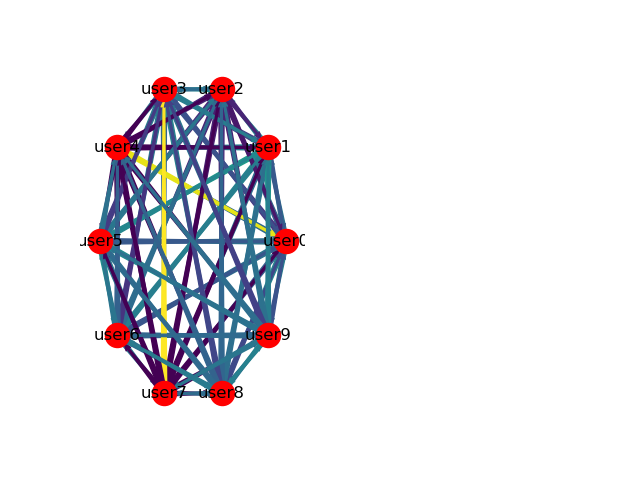
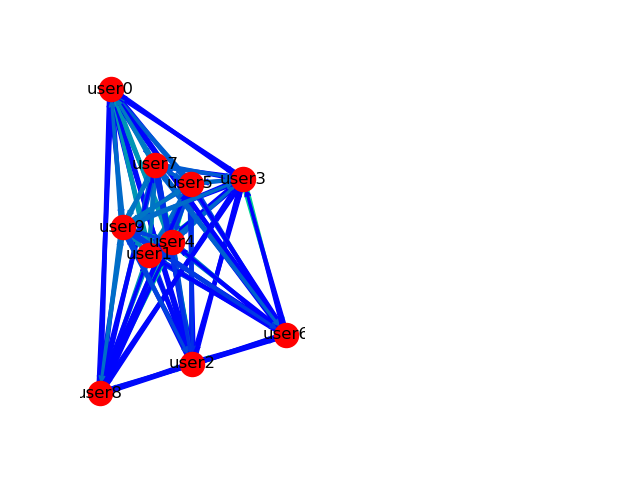
Switched to SVM. Added cross-val data info. Noise_floor is back to culling edges. Using FR Graph Layout.

Changed region(s): [[0.125, 0.1464, 0.4688, 0.8494]]

diff --git a/encode_and_train.py b/encode_and_train.py
@@ -7,18 +7,25 @@ import networkx as nx
 import pandas
 from sklearn.naive_bayes import GaussianNB
 from sklearn.preprocessing import MultiLabelBinarizer
-
+from sklearn.model_selection import KFold, cross_val_score
+from sklearn import svm
 
 def encode_and_train(df: pandas.DataFrame) -> (MultiLabelBinarizer, GaussianNB):
     enc = MultiLabelBinarizer()
     print("Encoding data...")
     print(pandas.DataFrame(enc.fit_transform(df["present"] + df["member"].apply(str).apply(lambda x: [x])),
                            columns=enc.classes_, index=df.index))
-    clf = GaussianNB()
-    print("Training classifier...")
-    clf.fit(enc.transform(df["present"]), list(df["member"].apply(str)))
+    #print("Training GaussianNB classifier...")
+    #clf = GaussianNB()
+    #clf.fit(enc.transform(df["present"]), list(df["member"].apply(str)))
+    X, y = enc.transform(df["present"]), list(df["member"].apply(str))
+    #print(f"Cross-validation GNB: {cross_val_score(clf, X, y, cv=KFold(n_splits=5), n_jobs=-1)}")
+    print("Training svm...")
+    svc = svm.SVC(C=1.1, kernel="linear", probability=True, class_weight='balanced')
+    svc.fit(enc.transform(df["present"]), list(df["member"].apply(str)))
+    print(f"Cross-validation SVC : {cross_val_score(svc, X, y, cv=KFold(n_splits=5), n_jobs=-1)}")  # Note: SVC lookin' better
     print("Done.")
-    return enc, clf
+    return enc, svc
 
 
 def graph_data(encoder: MultiLabelBinarizer, classifier: GaussianNB, noise_floor: float = 0, name_file=None):
@@ -37,20 +44,22 @@ def graph_data(encoder: MultiLabelBinarizer, classifier: GaussianNB, noise_floor
                 weight = float(prob_map[u])
             else:
                 weight = 0
-            social_graph.add_edge(u, o, weight=weight)
+            if weight > noise_floor:
+                social_graph.add_edge(u, o, weight=weight)
 
     plt.subplot(121)
     if name_file:
         mapping = {k: v for (k, v) in get_dict_from_namefile(name_file).items() if k in social_graph.nodes}
         nx.relabel_nodes(social_graph, mapping, copy=False)
-    pos = nx.circular_layout(social_graph)
+    print("In-degree weight sums:")
+    print(sorted(social_graph.in_degree(weight='weight'), key=lambda x: x[1], reverse=True))
+    # pos = nx.circular_layout(social_graph)
+    pos = nx.fruchterman_reingold_layout(social_graph)
     edges, weights = zip(*[i for i in nx.get_edge_attributes(social_graph, 'weight').items() if i[1] > noise_floor])
     nx.draw(social_graph, pos, edgelist=edges, edge_color=weights, edge_cmap=plt.get_cmap("winter"), with_labels=True,
             arrowstyle='fancy')
     print("Done. Showing graph.")
     plt.show()
-    print("In-degree weight sums:")
-    print(sorted(social_graph.in_degree(weight='weight'), key=lambda x: x[1], reverse=True))
     return social_graph
 
 

diff --git a/generate_samples.py b/generate_samples.py
@@ -21,11 +21,11 @@ def generate_samples(samples, num_members, savepath):
     for _ in range(int(random.triangular(1, len(user_ids), 2))):
         # BUG: Sometimes u0 and u1 are duplicates that overwrite previous values
         u0, u1 = random.sample(user_ids, 2)
-        friendlist[u0] = friendship(u0, u1, random.uniform(.7, 1))
+        friendlist[u0] = friendship(u0, u1, random.uniform(.9, 1))
         print(f"{u0} and {u1} are friends with weight .{int(100*friendlist[u0].weight)}")
     friendly_users = friendlist.keys()
 
-    print("Generating samples")
+    print("Generating samples...")
     current_time = int(time.time())
     for _ in range(samples):
         member = random.choice(user_ids)

diff --git a/README.md b/README.md
@@ -12,15 +12,17 @@ The data is stored in a `csv` file, looking like the following:
 
 ```csv
 timestamp,member,present
-1538780281,user9,"['user4', 'user6']"
-1538780523,user9,"['user7', 'user0', 'user5', 'user1', 'user3', 'user8', 'user2', 'user6']"
-1538781457,user0,"['user4', 'user3']"
-1538782163,user1,['user9']
-1538782577,user8,['user3']
-1538782852,user7,"['user0', 'user4', 'user8', 'user5', 'user3']"
-1538782998,user1,"['user9', 'user2', 'user3', 'user7', 'user4']"
-1538783891,user0,"['user7', 'user5', 'user3', 'user4', 'user8', 'user1']"
-1538784016,user5,"['user2', 'user1']"
+1539291278,user3,"['user8', 'user1', 'user0', 'user7', 'user4', 'user6']"
+1539291514,user1,"['user5', 'user0', 'user4', 'user2', 'user7', 'user8', 'user9', 'user6']"
+1539292425,user0,"['user7', 'user5', 'user3', 'user9', 'user4']"
+1539293267,user3,"['user4', 'user0', 'user2', 'user7', 'user6']"
+1539293442,user9,['user8']
+1539293609,user3,"['user6', 'user0', 'user7', 'user4']"
+1539293634,user3,"['user0', 'user6', 'user5', 'user8']"
+1539293848,user9,"['user6', 'user4', 'user0', 'user7']"
+1539294307,user9,"['user6', 'user1', 'user0']"
+1539294408,user6,"['user1', 'user4', 'user0', 'user7', 'user5', 'user2']"
+1539295361,user6,"['user0', 'user1', 'user4', 'user3', 'user9', 'user2']"
 ...
 ```
 
@@ -37,23 +39,22 @@ Sample:
 $ python generate_samples.py 5000 10 data.csv
 Created 10 members.
 Generating friends...
-user2 and user3 are friends with weight .70
-user7 and user3 are friends with weight .92
-user4 and user0 are friends with weight .82
-user4 and user0 are friends with weight .72
-user4 and user0 are friends with weight .85
+user2 and user4 are friends with weight .93
+user0 and user4 are friends with weight .92
+user3 and user6 are friends with weight .99
+user8 and user2 are friends with weight .91
+user6 and user2 are friends with weight .98
 Generating samples
 Data successfully generated!
 ------
            member                                            present
 timestamp                                                           
-1538780281  user9                                     [user4, user6]
-1538780523  user9  [user7, user0, user5, user1, user3, user8, use...
-1538781457  user0                                     [user4, user3]
-1538782163  user1                                            [user9]
-1538782577  user8                                            [user3]
-1538782852  user7                [user0, user4, user8, user5, user3]
-1538782998  user1                [user9, user2, user3, user7, user4]
+1539291278  user3         [user8, user1, user0, user7, user4, user6]
+1539291514  user1  [user5, user0, user4, user2, user7, user8, use...
+1539292425  user0                [user7, user5, user3, user9, user4]
+1539293267  user3                [user4, user0, user2, user7, user6]
+1539293442  user9                                            [user8]
+1539293609  user3                       [user6, user0, user7, user4]
 ...
 [5000 rows x 2 columns]
 Saving data to C:\Users\SawyerPC\PycharmProjects\DiscordSocialGraph\data.csv.
@@ -65,34 +66,38 @@ The data can then by processed by running `encode_and_train.py`
 $ python encode_and_train.py data.csv
 Reading C:\Users\SawyerPC\PycharmProjects\DiscordSocialGraph\data.csv...
 Encoding data...
-      user0  user1  user2  user3  user4  user5  user6  user7  user8  user9
-0         0      0      0      0      1      0      1      0      0      0
-1         1      1      1      1      0      1      1      1      1      0
-2         0      0      0      1      1      0      0      0      0      0
-3         0      0      0      0      0      0      0      0      0      1
-4         0      0      0      1      0      0      0      0      0      0
-5         1      0      0      1      1      1      0      0      1      0
-6         0      0      1      1      1      0      0      1      0      1
-7         0      1      0      1      1      1      0      1      1      0
-8         0      1      1      0      0      0      0      0      0      0
-9         0      0      0      1      1      1      0      1      1      1
+   user0  user1  user2  user3  user4  user5  user6  user7  user8  user9
+0         1      1      0      1      1      0      1      1      1      0
+1         1      1      1      0      1      1      1      1      1      1
+2         1      0      0      1      1      1      0      1      0      1
+3         1      0      1      1      1      0      1      1      0      0
+4         0      0      0      0      0      0      0      0      1      1
+5         1      0      0      1      1      0      1      1      0      0
+6         1      0      0      1      0      1      1      0      1      0
+7         1      0      0      0      1      0      1      1      0      1
+8         1      1      0      0      0      0      1      0      0      1
+9         1      1      1      0      1      1      1      1      0      0
+
 ...
 [5000 rows x 10 columns]
-Training classifier...
+Training svm...
+Cross-validation SVC : [ 0.369   0.3315  0.347   0.326   0.3165]
 Done.
 Building graph...
+In-degree weight sums:
+[('user8', 0.9723977805015738), ('user3', 0.9566272749998164), ('user0', 0.9558614388968902), ...]
 Done. Showing graph.
 ```
 
-A social graph is then constructed, with weights consisting of the Gaussian Naive Bayes probability of that user interacting with given a 
+A social graph is then constructed, with weights consisting of the SVM probability of that user interacting with given a 
 neighbor N. The graph is then drawn:
 
 ![Social Graph](samples/Figure_1.png)
 
-A "noise floor" can be added to prune insignificant edges. A `noise_floor` of `.15` can be used by calling
+A "noise floor" can be added to prune insignificant edges. A `noise_floor` of `.09` can be used by calling
 
 ```
-python encode_and_train.py data.csv -nf .15
+python encode_and_train.py data.csv -nf .09
 ```
 
 Which produces the following graph:
